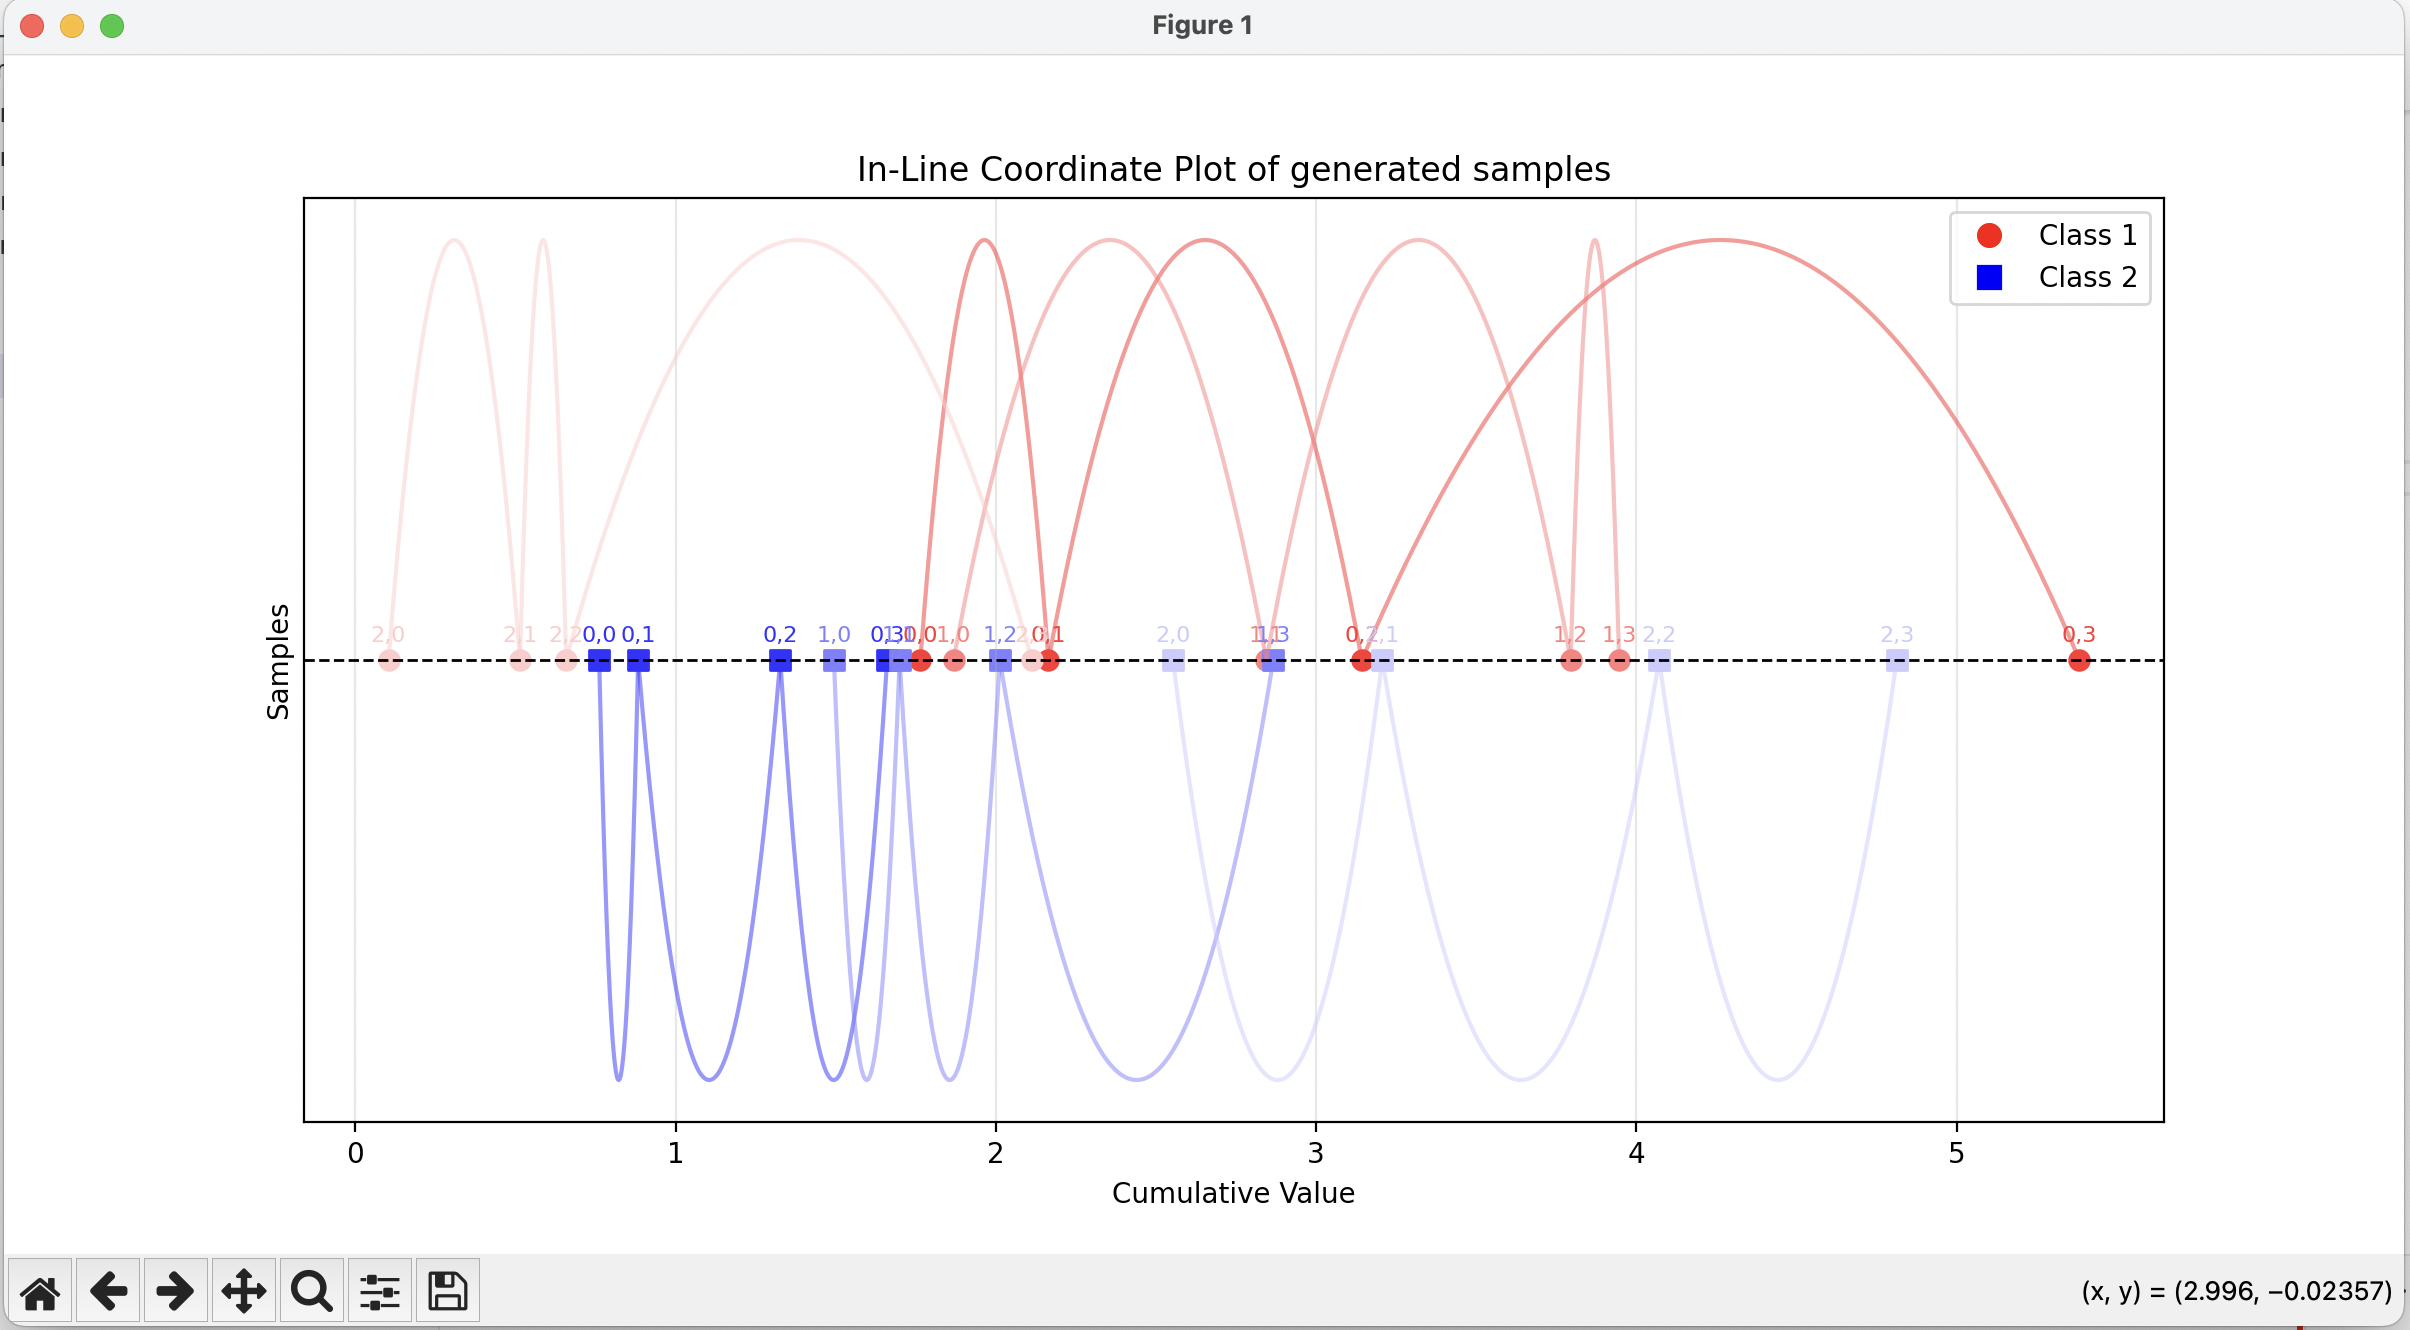
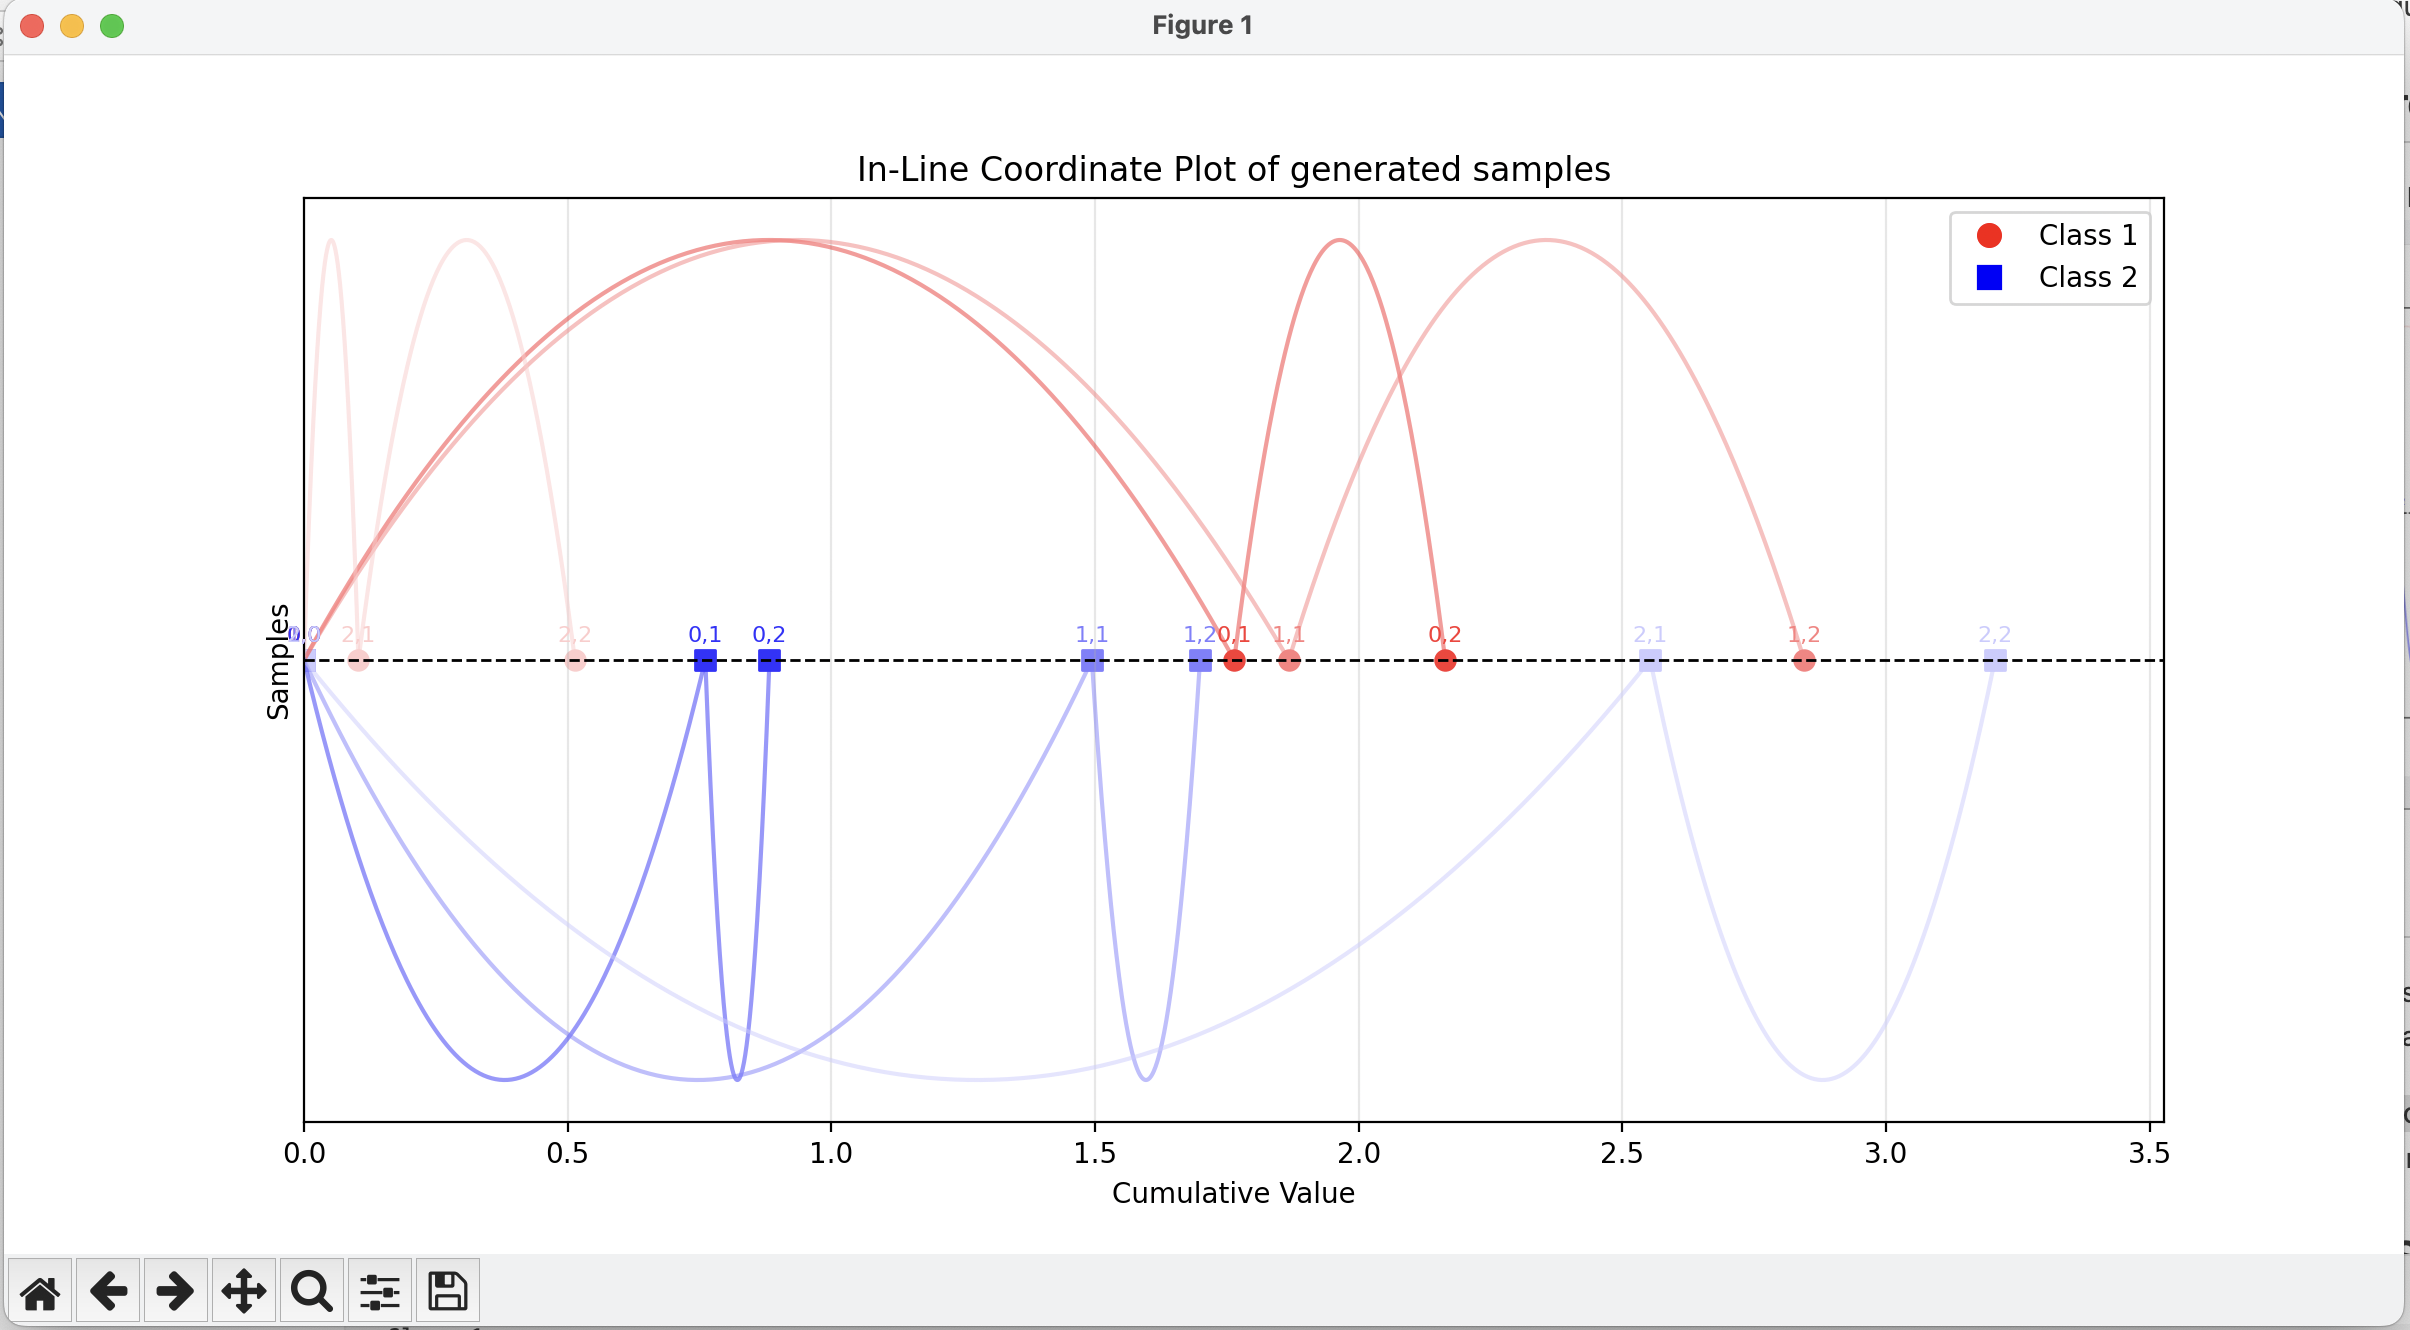
Fix first point for dynamic in line coordinates

diff --git a/main.py b/main.py
@@ -45,9 +45,9 @@ for i in range(2):  # For each class
     colors = cmap(np.linspace(0.2, 0.8, len(data[i])))  # Dynamically create shades based on number of samples
 
     for j in range(len(data[i])):  # For each sample in the class
-        cumulative_sum = np.cumsum(np.abs(data[i, j]))  # Use absolute values to ensure always increasing
+        cumulative_sum = np.concatenate(([0], np.cumsum(np.abs(data[i, j]))))  # Start at 0, then use absolute values
         y_position = 0  # All points on the x-axis (y=0)
-        scatter = plt.scatter(cumulative_sum, [y_position] * len(data[i, j]), c=[colors[j]], marker=markers[i], s=50)
+        scatter = plt.scatter(cumulative_sum, [y_position] * len(cumulative_sum), c=[colors[j]], marker=markers[i], s=50)
         
         # Label points with index in their case
         for k, x in enumerate(cumulative_sum):
@@ -56,10 +56,10 @@ for i in range(2):  # For each class
                          fontsize=8, color=colors[j])
         
         # Create Bezier curve between points of a single sample
-        points = np.column_stack((cumulative_sum, [y_position] * len(data[i, j])))
+        points = np.column_stack((cumulative_sum, [y_position] * len(cumulative_sum)))
         
         # Add control points to make curves arc slightly
-        for k in range(len(data[i, j]) - 1):  # segments between points
+        for k in range(len(cumulative_sum) - 1):  # segments between points
             x_start, x_end = points[k:k+2, 0]
             x_mid = (x_start + x_end) / 2
             y_control = 0.05 if i == 0 else -0.05  # Small arc up for class 1, down for class 2
